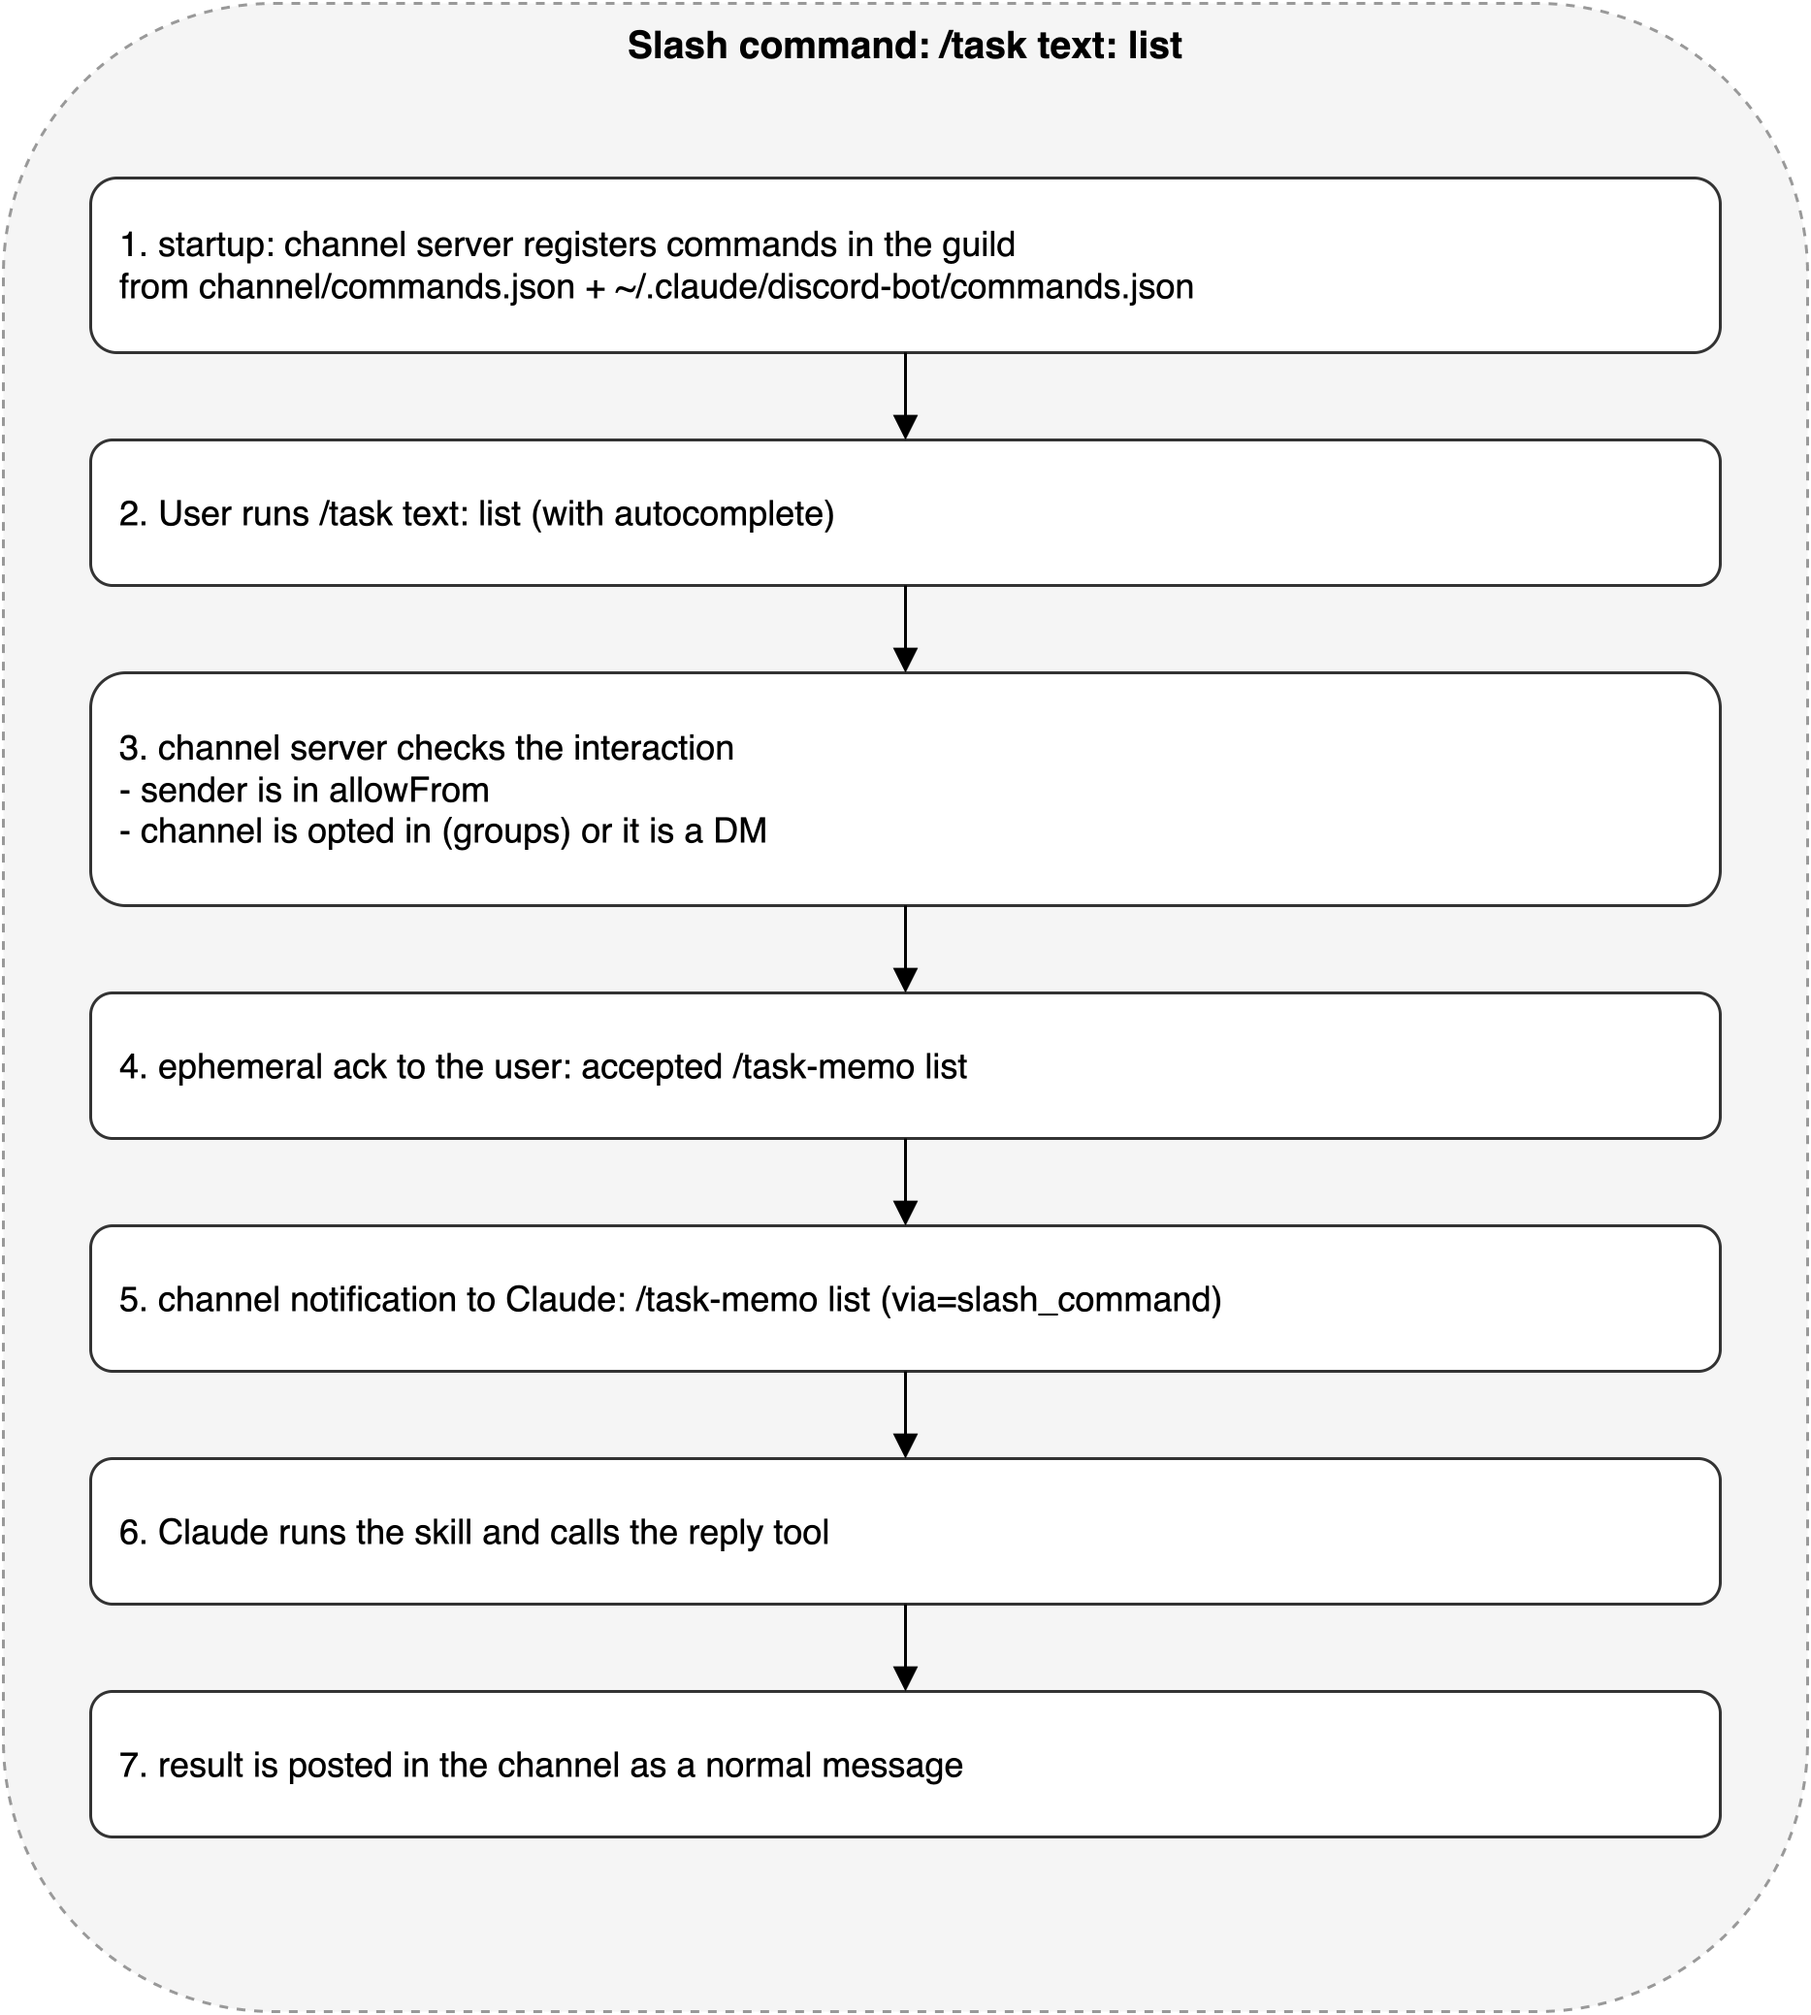
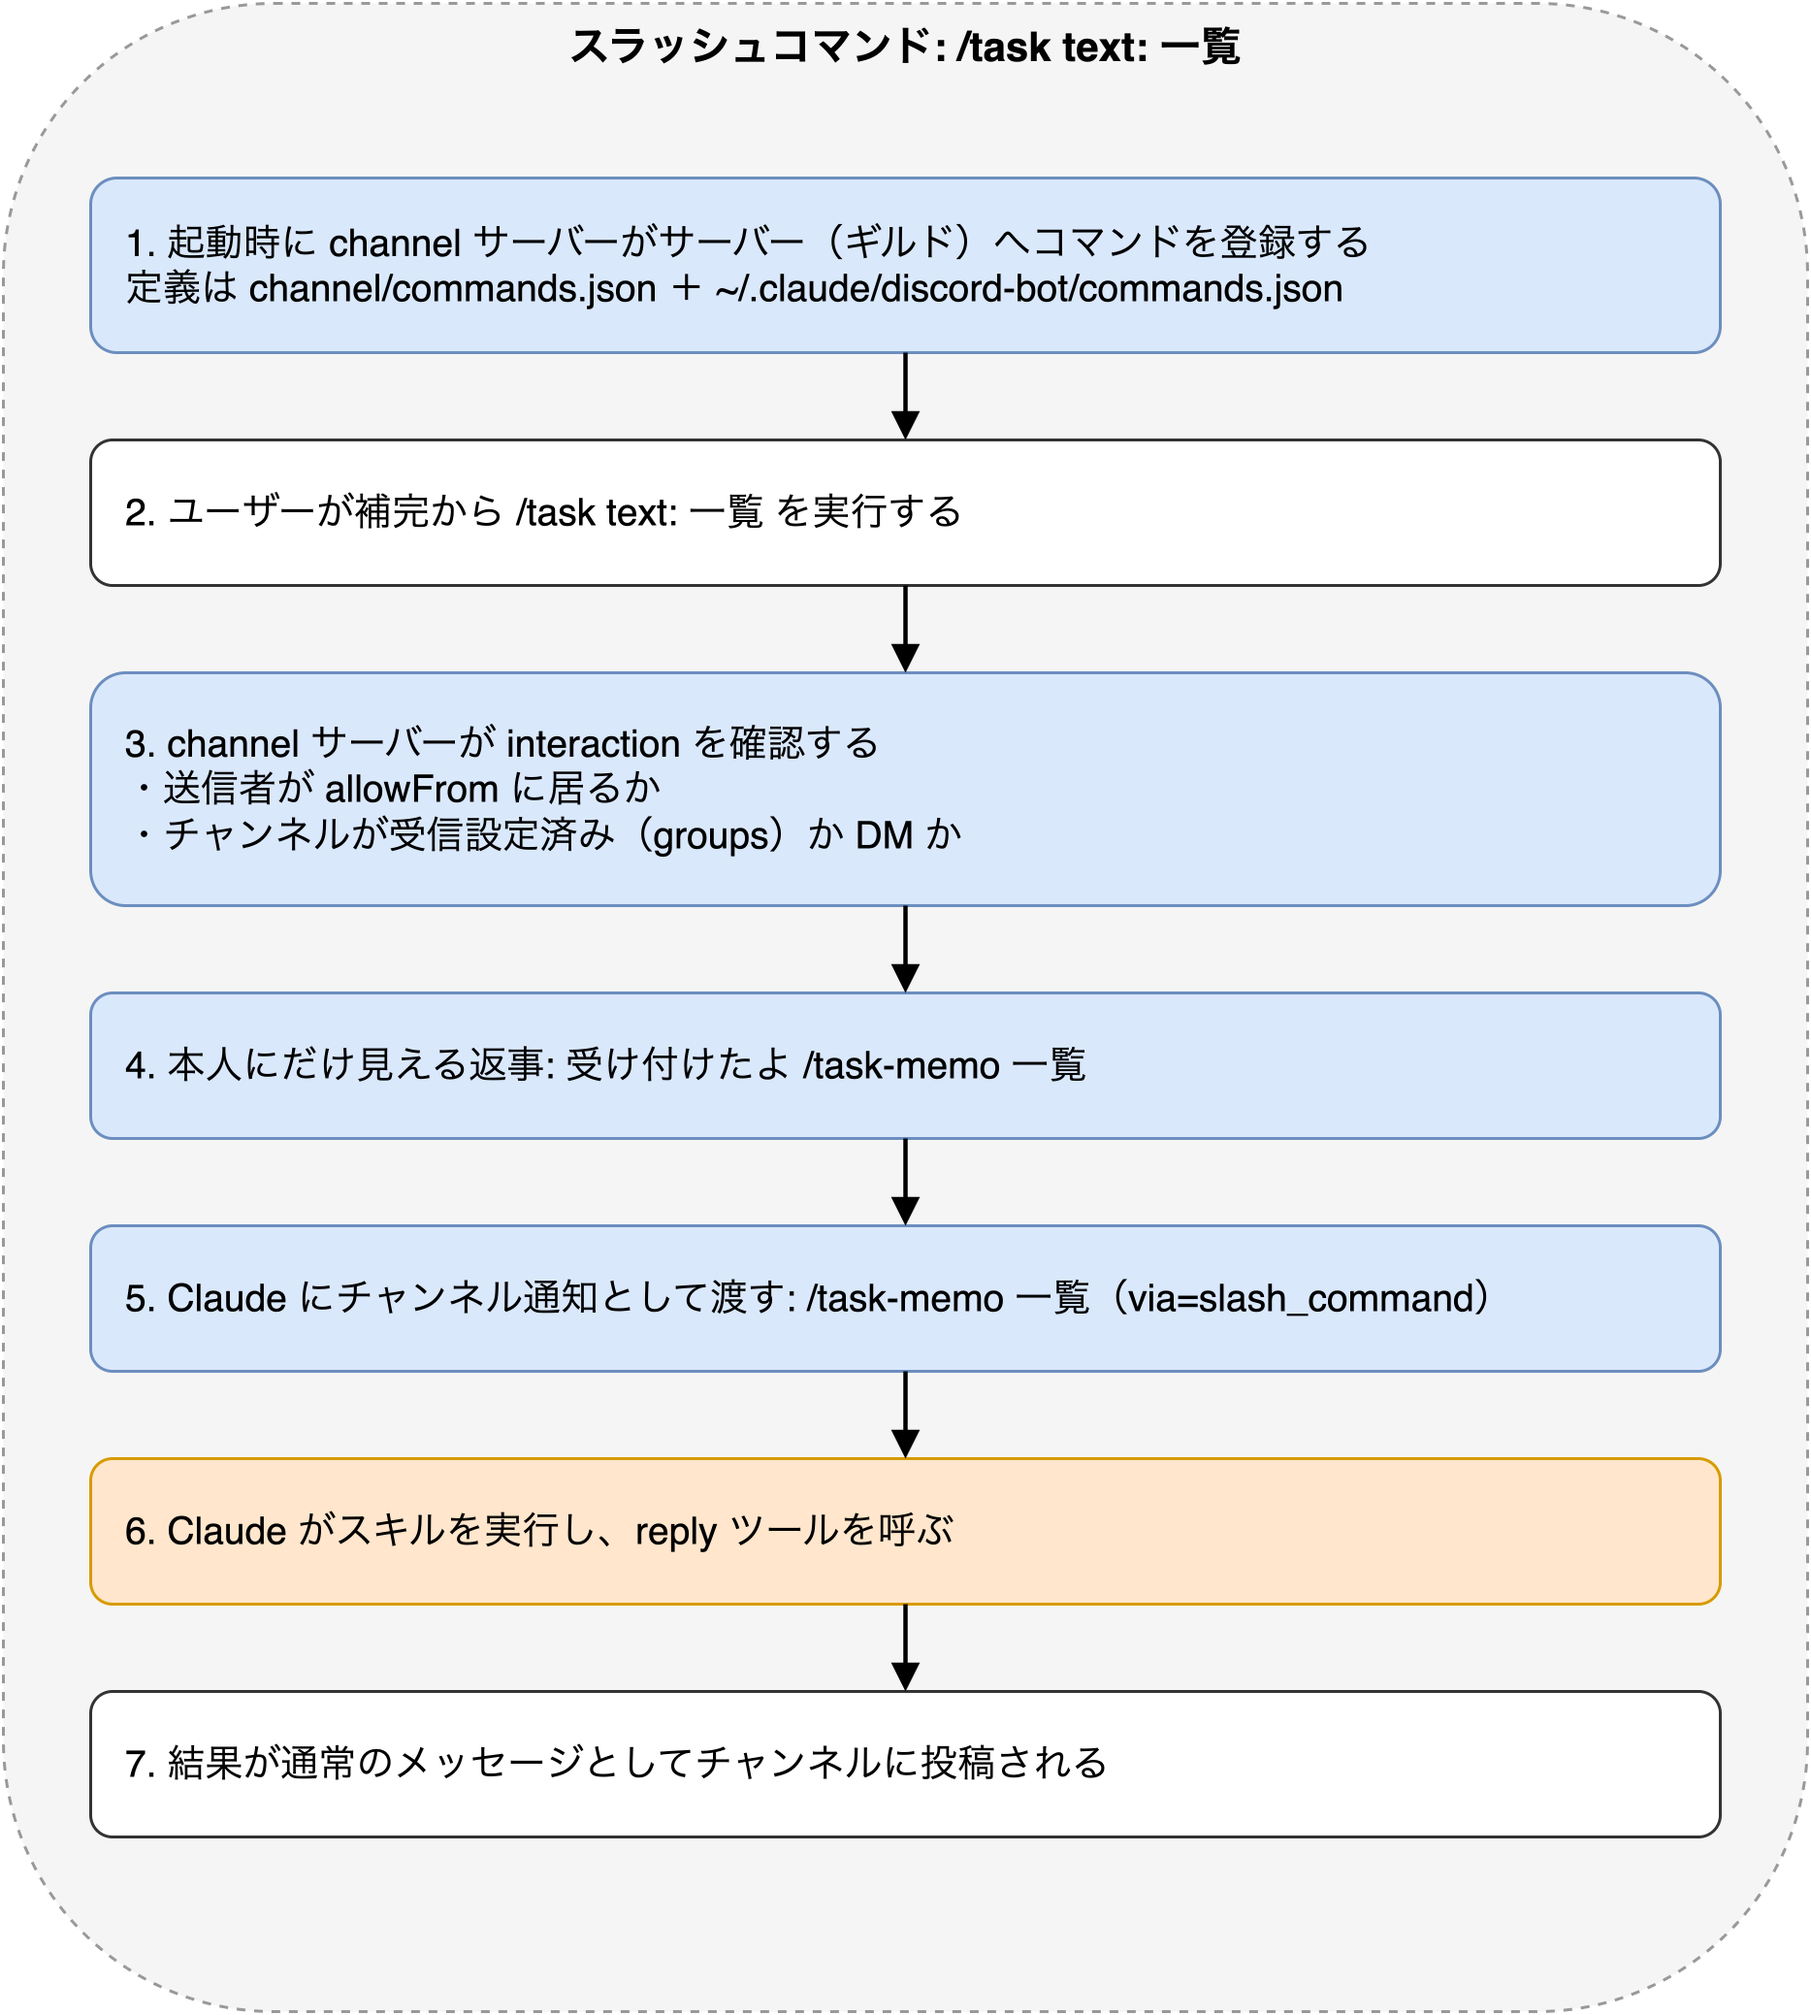
図を日本語ラベル・2色配色に描き直し、構成図の矢印を面に垂直に

diff --git a/README.md b/README.md
@@ -13,7 +13,7 @@ Claude Code の Discord チャンネル機能（`claude --channels ...`）は、
 
 ## 全体像
 
-![Architecture](docs/diagrams/architecture.png)
+![全体構成](docs/diagrams/architecture.png)
 
 ## 機能
 
